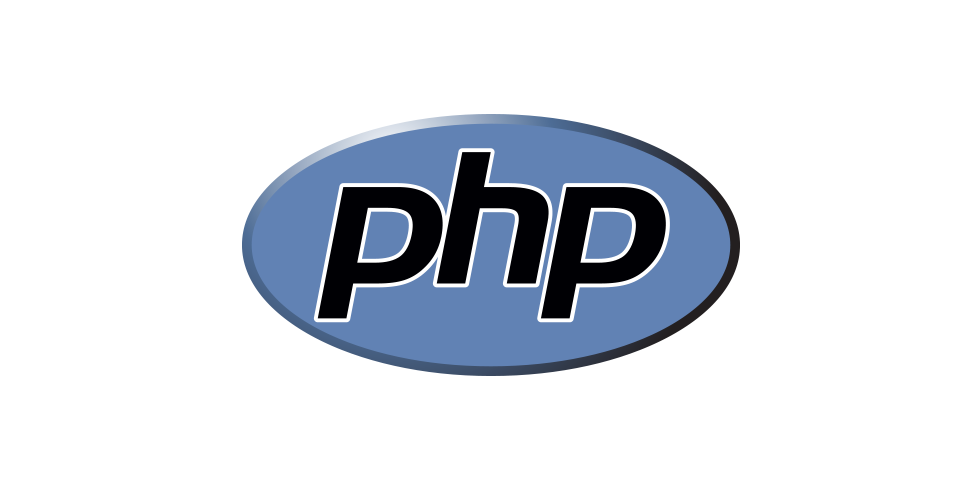
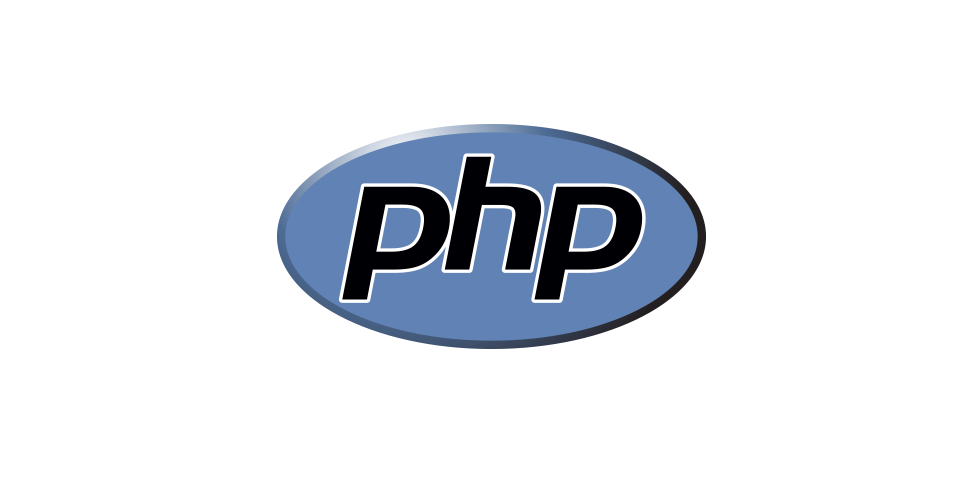
integrations page

Changed region(s): [[0.2449, 0.21, 0.7653, 0.75]]

diff --git a/material/styles.css b/material/styles.css
@@ -525,7 +525,7 @@ a img{
 
 .about-page .headshots{
   padding-top: 2%;
-  max-width: 50%;
+  max-width: 55%;
   margin:0 auto;
 }
 
@@ -597,7 +597,7 @@ a img{
 
 .integrations-page .integrations h1{
   text-align: center;
-  padding-top: 3vh;
+  padding-top: 5vh;
   color: #9D907E;
   font-family: "Avenir Next";
   font-weight: "Demi Bold";
@@ -618,14 +618,13 @@ a img{
   display: inline-block;
   width:auto;
   max-width: 250px;
-  margin-top: 2em;
+  margin-top: 0.4em;
   margin-right: 0.1em;
 }
 
 .integration img{
   width:100%;
 }
-
 
 
 /*
